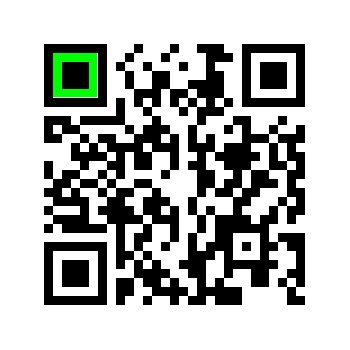
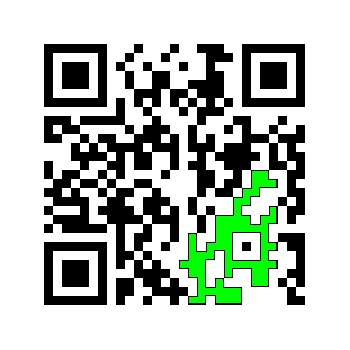
added adaptive thresholding

Changed region(s): [[0.5143, 0.4857, 0.8, 0.8857], [0.1429, 0.1429, 0.2857, 0.2857]]

diff --git a/SimpleCV/ImageClass.py b/SimpleCV/ImageClass.py
@@ -371,6 +371,20 @@ class Image:
   
 
   #get the mean color of an image
+  def binarizeAdaptive(self, p=5,max=255,block=3):
+    """
+    This method is similar to binarize but uses an adaptive thresholding algorithm.
+    This algorithm looks over a region of block*block pixels and calculates an
+    average. Parameter is threshold to subtract off of the mean. This is
+    to say we make a pixel white if pixel_value = local_mean -p
+    
+    This function works on the grayscale image and returns a new Image object
+    """
+    retVal = self.getEmpty(1) 
+    #desaturate the image, and apply the new threshold          
+    #cv.Threshold(self._getGrayscaleBitmap(), retVal, max, cv.CV_ADAPTIVE_THRESH_MEAN_C, cv.CV_THRESH_BINARY,block,p)
+    return Image(retVal)
+  
   def meanColor(self):
     """
     Finds average color of all the pixels in the image.
@@ -401,6 +415,52 @@ class Image:
 
     return FeatureSet(corner_features)
 
+  def findBlobsAdaptive(self,minsize=10, maxsize=0,max=255,block=3,p=5):
+    """
+    Performs an adaptive threshold, similar to findBlobs but using a different
+    blob extraction technique that looks at the local region's brightness to find
+    the correct threshold to use locally.
+    
+    Use when: a straight threshold is not getting a complete blob due to lighting issues
+    
+    If you have the cvblob library installed, this will look for continuous
+    light regions and return them as Blob features in a FeatureSet.  Parameters
+    specify the threshold value, and minimum and maximum size for blobs.
+
+    You can find the cv-blob python library at http://github.com/oostendo/cvblob-python
+
+    Returns: FEATURESET   
+    """
+    if not BLOBS_ENABLED:
+      warnings.warn("You tried to use findBlobs, but cvblob is not installed.  Go to http://github.com/oostendo/cvblob-python and git clone it.")
+      return None
+    
+    if (maxsize == 0):  
+      maxsize = self.width * self.height / 2
+    
+    #create a single channel image, thresholded to parameters
+    grey = self.getEmpty(1) 
+    cv.AdaptiveThreshold(self._getGrayscaleBitmap(), grey, max,
+                         cv.CV_ADAPTIVE_THRESH_MEAN_C, cv.CV_THRESH_BINARY,
+                         block, p)
+    
+    #create the label image
+    self._blobLabel = cv.CreateImage(cv.GetSize(self.getBitmap()), cvb.IPL_DEPTH_LABEL, 1)
+    
+    #initialize the cvblobs blobs data structure (dict with label -> blob)
+    blobs = cvb.Blobs()
+    
+    result = cvb.Label(grey, self._blobLabel, blobs)
+    cvb.FilterByArea(blobs, minsize, maxsize) 
+    
+    blobs_sizesorted = sorted(blobs.values(), key=lambda x: x.area, reverse=True) 
+    
+    blobsFS = [] #create a new featureset for the blobs
+    for b in blobs_sizesorted:
+      blobsFS.append(Blob(self,b)) #wrapper the cvblob type in SimpleCV's blob type 
+    
+    return FeatureSet(blobsFS) 
+    
   def findBlobs(self, threshval = 127, minsize=10, maxsize=0):
     """
     If you have the cvblob library installed, this will look for continuous
@@ -1139,8 +1199,7 @@ class Image:
       retVal = np.array(retVal)
       retVal = retVal.transpose()
     return retVal
-<<<<<<< HEAD
-  
+
   def crop(self,x , y, w, h, centered=False):
     """
     Crop attempts to use the x and y position variables and the w and h width
@@ -1184,6 +1243,4 @@ class Image:
       retVal = self.crop(xf,yf,w,h)
       
     return retVal
-   
-=======
->>>>>>> d2b1af8251b1c42aab15cfe9280a43529db2b5e7
+  

diff --git a/SimpleCV/tests/tests.py b/SimpleCV/tests/tests.py
@@ -171,6 +171,15 @@ def test_binarize():
   else:
     assert False
 
+def test_binarize_adaptive():
+  img =  Image(testimage2)
+  binary = img.binarizeAdaptive()
+  hist = binary.histogram(20)  
+  if (hist[0] + hist[-1] == np.sum(hist)):
+    pass
+  else:
+    assert False
+
 def test_invert():
   img = Image(testimage2)
   clr = img[1,1]
@@ -271,7 +280,14 @@ def test_blobs():
 
   pass
 
-
+def test_blobs_adaptive():
+  if not BLOBS_ENABLED:
+    return None 
+  img = Image(testbarcode)
+  blobs = img.findBlobsAdaptive()
+  blobs[0].draw((0, 255, 0))
+  img.save(testoutput)  
+  pass
 
 
 def test_barcode():

diff --git a/SimpleCV/examples/motionblur.py b/SimpleCV/examples/motionblur.py
@@ -7,11 +7,8 @@ from SimpleCV import *
 js = JpegStreamer(8080)
 #create JPEG streamers
 
-<<<<<<< HEAD
 cam = Camera(1)
-=======
-cam = Camera()
->>>>>>> 4f25347e048ccf5df5c70421a00e488d9d7ef506
+
 #initialize the camera
 
 #the number of frames
